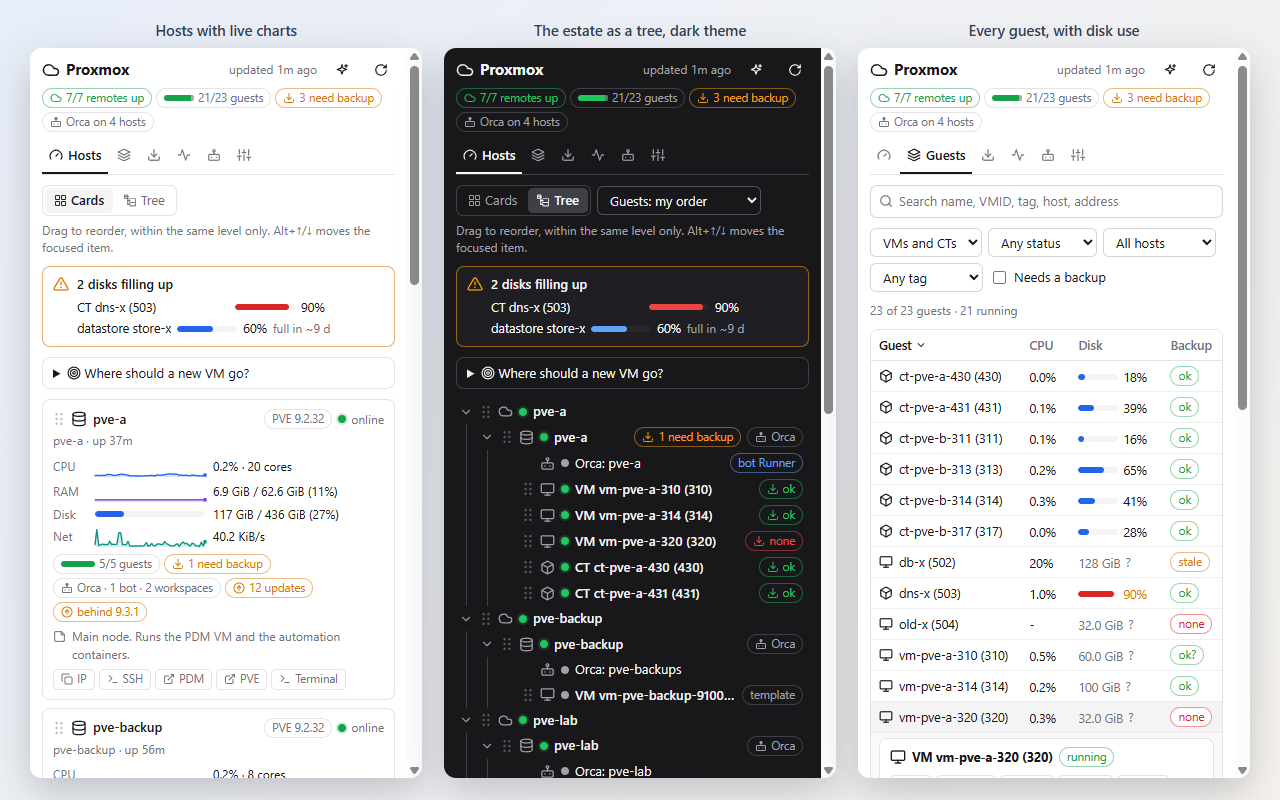
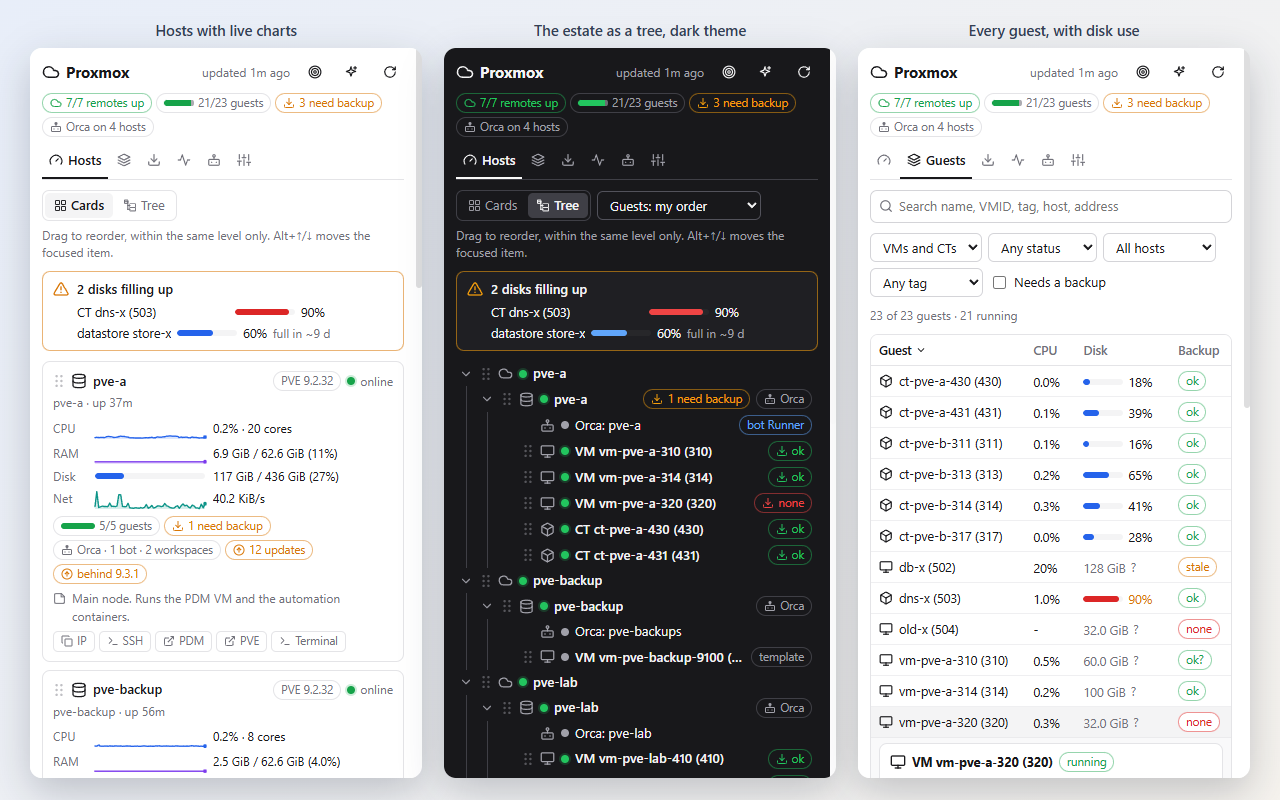
Screenshots and README: the tools row, the planner as a tool, thin scrollbars
Also: the header's "updated" text stays on one line beside an open tool.

Changed region(s): [[0.0312, 0.0625, 0.6562, 0.9688], [0.6875, 0.0625, 1.0, 0.9688]]

diff --git a/src/ui/index.html b/src/ui/index.html
@@ -144,6 +144,10 @@
       }
       .title-row .updated {
         margin-left: auto;
+        min-width: 0;
+        overflow: hidden;
+        text-overflow: ellipsis;
+        white-space: nowrap;
       }
       .tabs {
         display: flex;

diff --git a/README.md b/README.md
@@ -42,7 +42,7 @@ Rendered from the bundled example estate (no real servers):
   <img src="docs/screenshots/tree-drag.png" alt="The tree of remotes, nodes, Orca hosts and guests in the dark theme, with a guest being dragged within its node" width="240">
   <img src="docs/screenshots/guests.png" alt="The guests table sorted by disk use, with a VM's use from its guest agent and others' allocated size marked unknown, one guest opened with its actions, tags, notes, charts and details" width="240">
   <img src="docs/screenshots/tasks.png" alt="The tasks of all remotes, with two failed backups in red" width="240">
-  <img src="docs/screenshots/planner.png" alt="Where a new VM fits: free memory, disk and CPU per node, best fit first" width="240">
+  <img src="docs/screenshots/planner.png" alt="The Place a VM tool open: free memory, disk and CPU per node for a VM of a given size, best fit first" width="240">
   <img src="docs/screenshots/orca.png" alt="The Orca tab: one Orca server per Proxmox node, with its bot and workspaces" width="240">
   <img src="docs/screenshots/settings.png" alt="Settings: a PDM, a PVE and a PBS connection listed compactly, one opened for editing with its token and pinned certificate, and folded sections for the import file, help and plugin options" width="240">
   <img src="docs/screenshots/copy-for-ai.png" alt="The Copy for AI preview in the mode without addresses, with the text to copy" width="240">
@@ -104,8 +104,9 @@ follow [Setup](#setup).
 - **Warnings**: guest disks over 85 % (containers, and VMs whose guest agent reports their use), datastores over 80 % and storages over 85 %, with "full
   in ~N days" when the history shows a steady rise; pending package updates and version drift
   between hosts.
-- **Where should a new VM go?**: free memory, disk and CPU per node for a VM of a given size, best
-  fit first.
+- **Where should a new VM go?**: the *Place a VM* tool in the header's tools row (beside Copy for
+  AI; their labels open out on hover and focus) shows free memory, disk and CPU per node for a VM
+  of a given size, best fit first.
 - **Copy for AI**: a clean Markdown summary of the estate (hosts, guests with tags, state and
   addresses, disk use, backups, warnings, where Orca runs) to paste into an agent, shown first and copied on
   request: with addresses; without addresses, a **best-effort filter** that takes IP addresses,
@@ -372,8 +373,10 @@ through PDM, on the backup scan's cadence; the Auditor role covers both.
 - **The placement planner** is advisory. PDM's resource list does not say which storages hold VM
   disks. Unless PDM reports a storage's content types, a storage is only ruled out by its name
   (backup, ISO, template, dump) and otherwise counted as *unverified*: its free space is shown, but
-  the node is never called a best fit, only a fit for memory and CPU. A node with no possible
-  storage shows its disk space as unknown.
+  the node is never called a best fit, only a fit for memory and CPU, and ranks after nodes whose
+  disk space is verified. A storage too small is no fit either way. A node with no possible storage
+  shows its disk space as unknown; one whose running guests could already claim all its memory
+  ranks lower.
 - **Large estates.** The first refresh waits for the inventory and every enrichment (backups,
   history, tasks, updates, addresses, Orca), four requests at a time with a 15-second timeout each;
   the panel waits up to two minutes. Very large estates (hundreds of guests, many slow remotes) can
